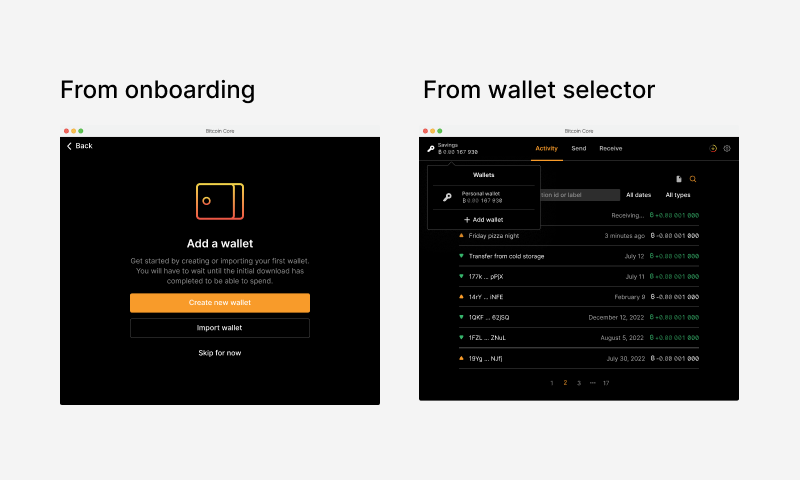
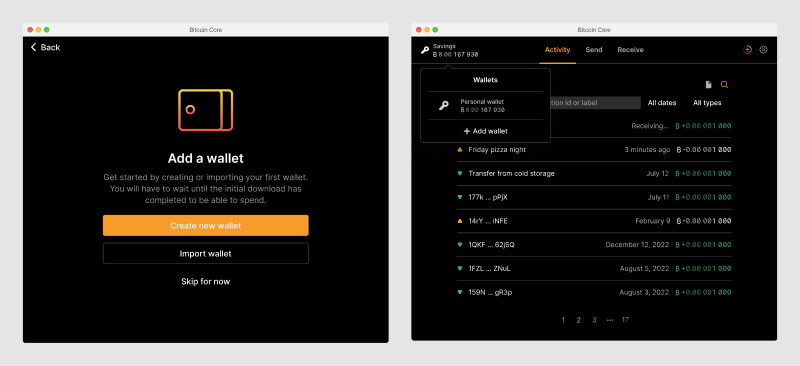
Updated entry points image

diff --git a/pages/milestones/1-3-import.md b/pages/milestones/1-3-import.md
@@ -51,7 +51,7 @@ For those users who would like to use Bitcoin Core with a wallet, the app offers
 	retina = "/assets/images/import-wallet/entry-points@2x.png"
 	alt-text = "Mockups showing the entry points to the wallet import flow."
 	width = 800
-	height = 368
+	height = 417
 %}
 
 
